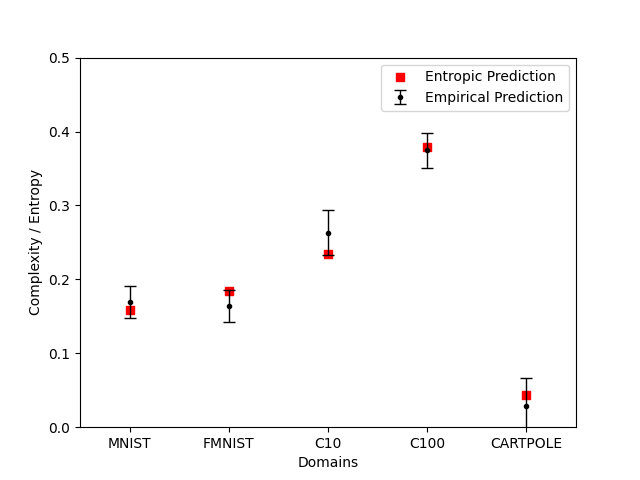
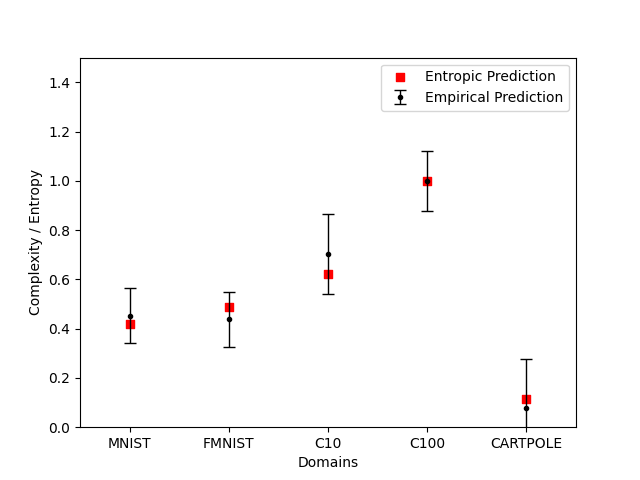
better plots

diff --git a/dev/complexity/param_analization_exp/plot.py b/dev/complexity/param_analization_exp/plot.py
@@ -5,22 +5,23 @@ import math
 # Gravity data
 
 # Generated from model_fit.py
+'''
 auc = [3.5984, 4.0194, 4.2322, 4.0122, 3.7949, 3.9532, 3.7849, 4.0725, 4.3933, 5.0773, 4.5117, 4.2933, 4.996, 4.0885, 4.3506, 4.9804, 5.9427, 4.902, 5.3871, 4.0765]
 mse = [2.9032, 6.4379, 4.211, 5.146, 2.1633, 2.5945, 1.7093, 3.2531, 5.8428, 2.956, 3.8241, 1.6394, 3.7085, 1.7095, 3.4702, 4.786, 1.9169, 3.589, 5.308, 3.4734]
 grav = ['0.0', '2.45', '4.9', '7.3500000000000005', '9.8', '12.25', '14.700000000000001', '17.150000000000002', '19.6', '22.05', '24.5', '26.950000000000003', '29.400000000000002', '31.85', '34.300000000000004', '36.75', '39.2', '41.650000000000006', '44.1', '46.550000000000004']
-
+'''
 '''
 # Pole Length Data
 auc = [5.2143, 5.0591, 3.5798, 3.9383, 4.5921, 4.1647, 4.1164, 3.9861, 4.3903, 4.1267, 3.7812, 5.3809, 4.451, 4.7345, 6.5964, 6.1176, 6.7132, 4.8388, 5.7302, 5.2121]
 mse = [4.4901, 1.0949, 1.1094, 1.3685, 3.0733, 0.154, 0.6689, 1.4322, 0.3585, 1.1033, 3.2368, 1.458, 3.6651, 2.7627, 4.3426, 2.2159, 3.2539, 1.1157, 2.0571, 2.1244]
 grav = ['0.25', '0.5', '0.75', '1.0', '1.25', '1.5', '1.75', '2.0', '2.25', '2.5', '2.75', '3.0', '3.25', '3.5', '3.75', '4.0', '4.25', '4.5', '4.75', '5.0']
 '''
-'''
+
 # Force data
 auc = [3.8393, 4.5677, 3.7063, 4.0717, 4.1868, 3.7468, 4.208, 4.1473, 4.2342, 3.7454, 3.7433, 6.5923, 5.1529, 4.1365, 4.8279, 4.3119, 5.1508, 5.9955, 4.4513, 4.6955]
 mse = [1.4374, 1.2807, 2.65, 1.275, 1.2581, 0.7002, 0.3973, 1.269, 0.7135, 1.2148, 1.725, 3.0207, 4.0627, 1.212, 3.1825, 0.7641, 2.3344, 2.4728, 0.7421, 2.4321]
 grav = ['1.0', '2.0', '3.0', '4.0', '5.0', '6.0', '7.0', '8.0', '9.0', '10.0', '11.0', '12.0', '13.0', '14.0', '15.0', '16.0', '17.0', '18.0', '19.0', '20.0']
-'''
+
 for ind,val in enumerate(grav):
     grav[ind] = float(val)
 
@@ -29,16 +30,14 @@ x = grav
 number_of_domains = len(auc)
 
 # Normalize everything to sum=1
-sum_mse = sum(mse)
-sum_auc = sum(auc)
-for ind in range(number_of_domains):
-    mse[ind] = mse[ind]/sum_mse
-    auc[ind] = auc[ind]/sum_auc
+tmp = max(auc)*max(mse)*len(auc)
+auc = [float(i)/max(auc) for i in auc]
+mse = [float(i)/tmp for i in mse]
 
 # Find SE from mse (RMSE functionally equaivalent to STDEV)
 standard_error = []
 for i in range(number_of_domains):
-    standard_error.append(1.96 * math.sqrt(mse[i]) / math.sqrt(1000))
+    standard_error.append(1.96 * math.sqrt(mse[i]))
 
 means = np.asarray(auc)
 
@@ -55,7 +54,7 @@ plt.plot(x, p(x), color='black')
 
 # Formatting
 plt.xlim(min(grav)-0.1, max(grav)+0.1)
-plt.ylim(0.0, 0.1)
+#plt.ylim(0.0, 0.1)
 plt.xlabel('Gravity')
 plt.ylabel('Complexity')
 

diff --git a/dev/complexity/classifcation_exp/entropy_plot.py b/dev/complexity/classifcation_exp/entropy_plot.py
@@ -14,6 +14,7 @@ entropy = [182532.4206179811,
 50090.15641089917]
 
 # Normalize everything to sum=1
+'''
 sum_mse = sum(mse)
 sum_auc = sum(auc)
 sum_entropy = sum(entropy)
@@ -21,13 +22,22 @@ for ind in range(5):
     mse[ind] = mse[ind]/sum_mse
     auc[ind] = auc[ind]/sum_auc
     entropy[ind] = entropy[ind]/sum_entropy
-
+'''
+# Normalize everything to 0,1
+entropy = [float(i)/max(entropy) for i in entropy]
+tmp = max(auc)*max(mse)*len(auc)
+auc = [float(i)/max(auc) for i in auc]
+mse = [float(i)/tmp for i in mse]
 print(auc)
+print(sum(auc))
+
+p = np.corrcoef(entropy, auc)
+print(p)
 
 # Find SE from mse (RMSE functionally equaivalent to STDEV)
 standard_error = []
 for i in range(5):
-    standard_error.append(1.96 * math.sqrt(mse[i]) / math.sqrt(1000))
+    standard_error.append(1.96 * math.sqrt(mse[i]))
 
 means = np.asarray(auc)
 
@@ -42,7 +52,7 @@ plt.scatter(np.arange(5), entropy, color='r', marker=',')
 plt.legend(['Entropic Prediction', 'Empirical Prediction'])
 plt.xlim(-0.5, 4.5)
 plt.xticks(np.arange(5), ["MNIST", "FMNIST", "C10", "C100", "CARTPOLE"])
-plt.ylim(0, 0.5)
+plt.ylim(0, 1.5)
 plt.xlabel('Domains')
 plt.ylabel('Complexity / Entropy')
 

diff --git a/dev/complexity/distrbiution_exp/plot.py b/dev/complexity/distrbiution_exp/plot.py
@@ -18,22 +18,20 @@ distance = [0.0, 0.1581138830084191, 0.31622776601683805, 0.4743416490252568, 0.
 print(len(auc), len(mse), len(distance))
 
 # Change here for dif x-axis
-x = over
-#x = distance
+#x = over
+x = distance
 
 number_of_domains = len(auc)
 
 # Normalize everything to sum=1
-sum_mse = sum(mse)
-sum_auc = sum(auc)
-for ind in range(number_of_domains):
-    mse[ind] = mse[ind]/sum_mse
-    auc[ind] = auc[ind]/sum_auc
+tmp = max(auc)*max(mse)*len(auc)
+auc = [float(i)/max(auc) for i in auc]
+mse = [float(i)/tmp for i in mse]
 
 # Find SE from mse (RMSE functionally equaivalent to STDEV)
 standard_error = []
 for i in range(number_of_domains):
-    standard_error.append(1.96 * math.sqrt(mse[i])  / math.sqrt(1000))
+    standard_error.append(1.96 * math.sqrt(mse[i]))
 
 means = np.asarray(auc)
 
@@ -51,8 +49,6 @@ plt.plot(x, p(x), color='black')
 
 # Formatting
 #plt.xlim(-0.1, 3.1)
-plt.xlim(0.0, 1.0)
-plt.ylim(0, 0.1)
 plt.xlabel('Cluster Overlap')
 plt.ylabel('Complexity')
 

diff --git a/dev/complexity/classes_exp/plot.py b/dev/complexity/classes_exp/plot.py
@@ -10,16 +10,14 @@ mse = [0.5618, 0.5782, 0.5974, 0.6064, 0.6081, 0.7243, 0.6826, 0.6723, 0.6453, 0
 number_of_domains = 10
 
 # Normalize everything to sum=1
-sum_mse = sum(mse)
-sum_auc = sum(auc)
-for ind in range(number_of_domains):
-    mse[ind] = mse[ind]/sum_mse
-    auc[ind] = auc[ind]/sum_auc
+tmp = max(auc)*len(auc)
+auc = [float(i)/max(auc) for i in auc]
+mse = [float(i)/tmp for i in mse]
     
 # Find SE from mse (RMSE functionally equaivalent to STDEV)
 standard_error = []
 for i in range(number_of_domains):
-    standard_error.append(1.96 * math.sqrt(mse[i]) * (1/sum_mse) / math.sqrt(1000))
+    standard_error.append(1.96 * math.sqrt(mse[i]))
 
 # create stacked errorbars:
 # Main bars
